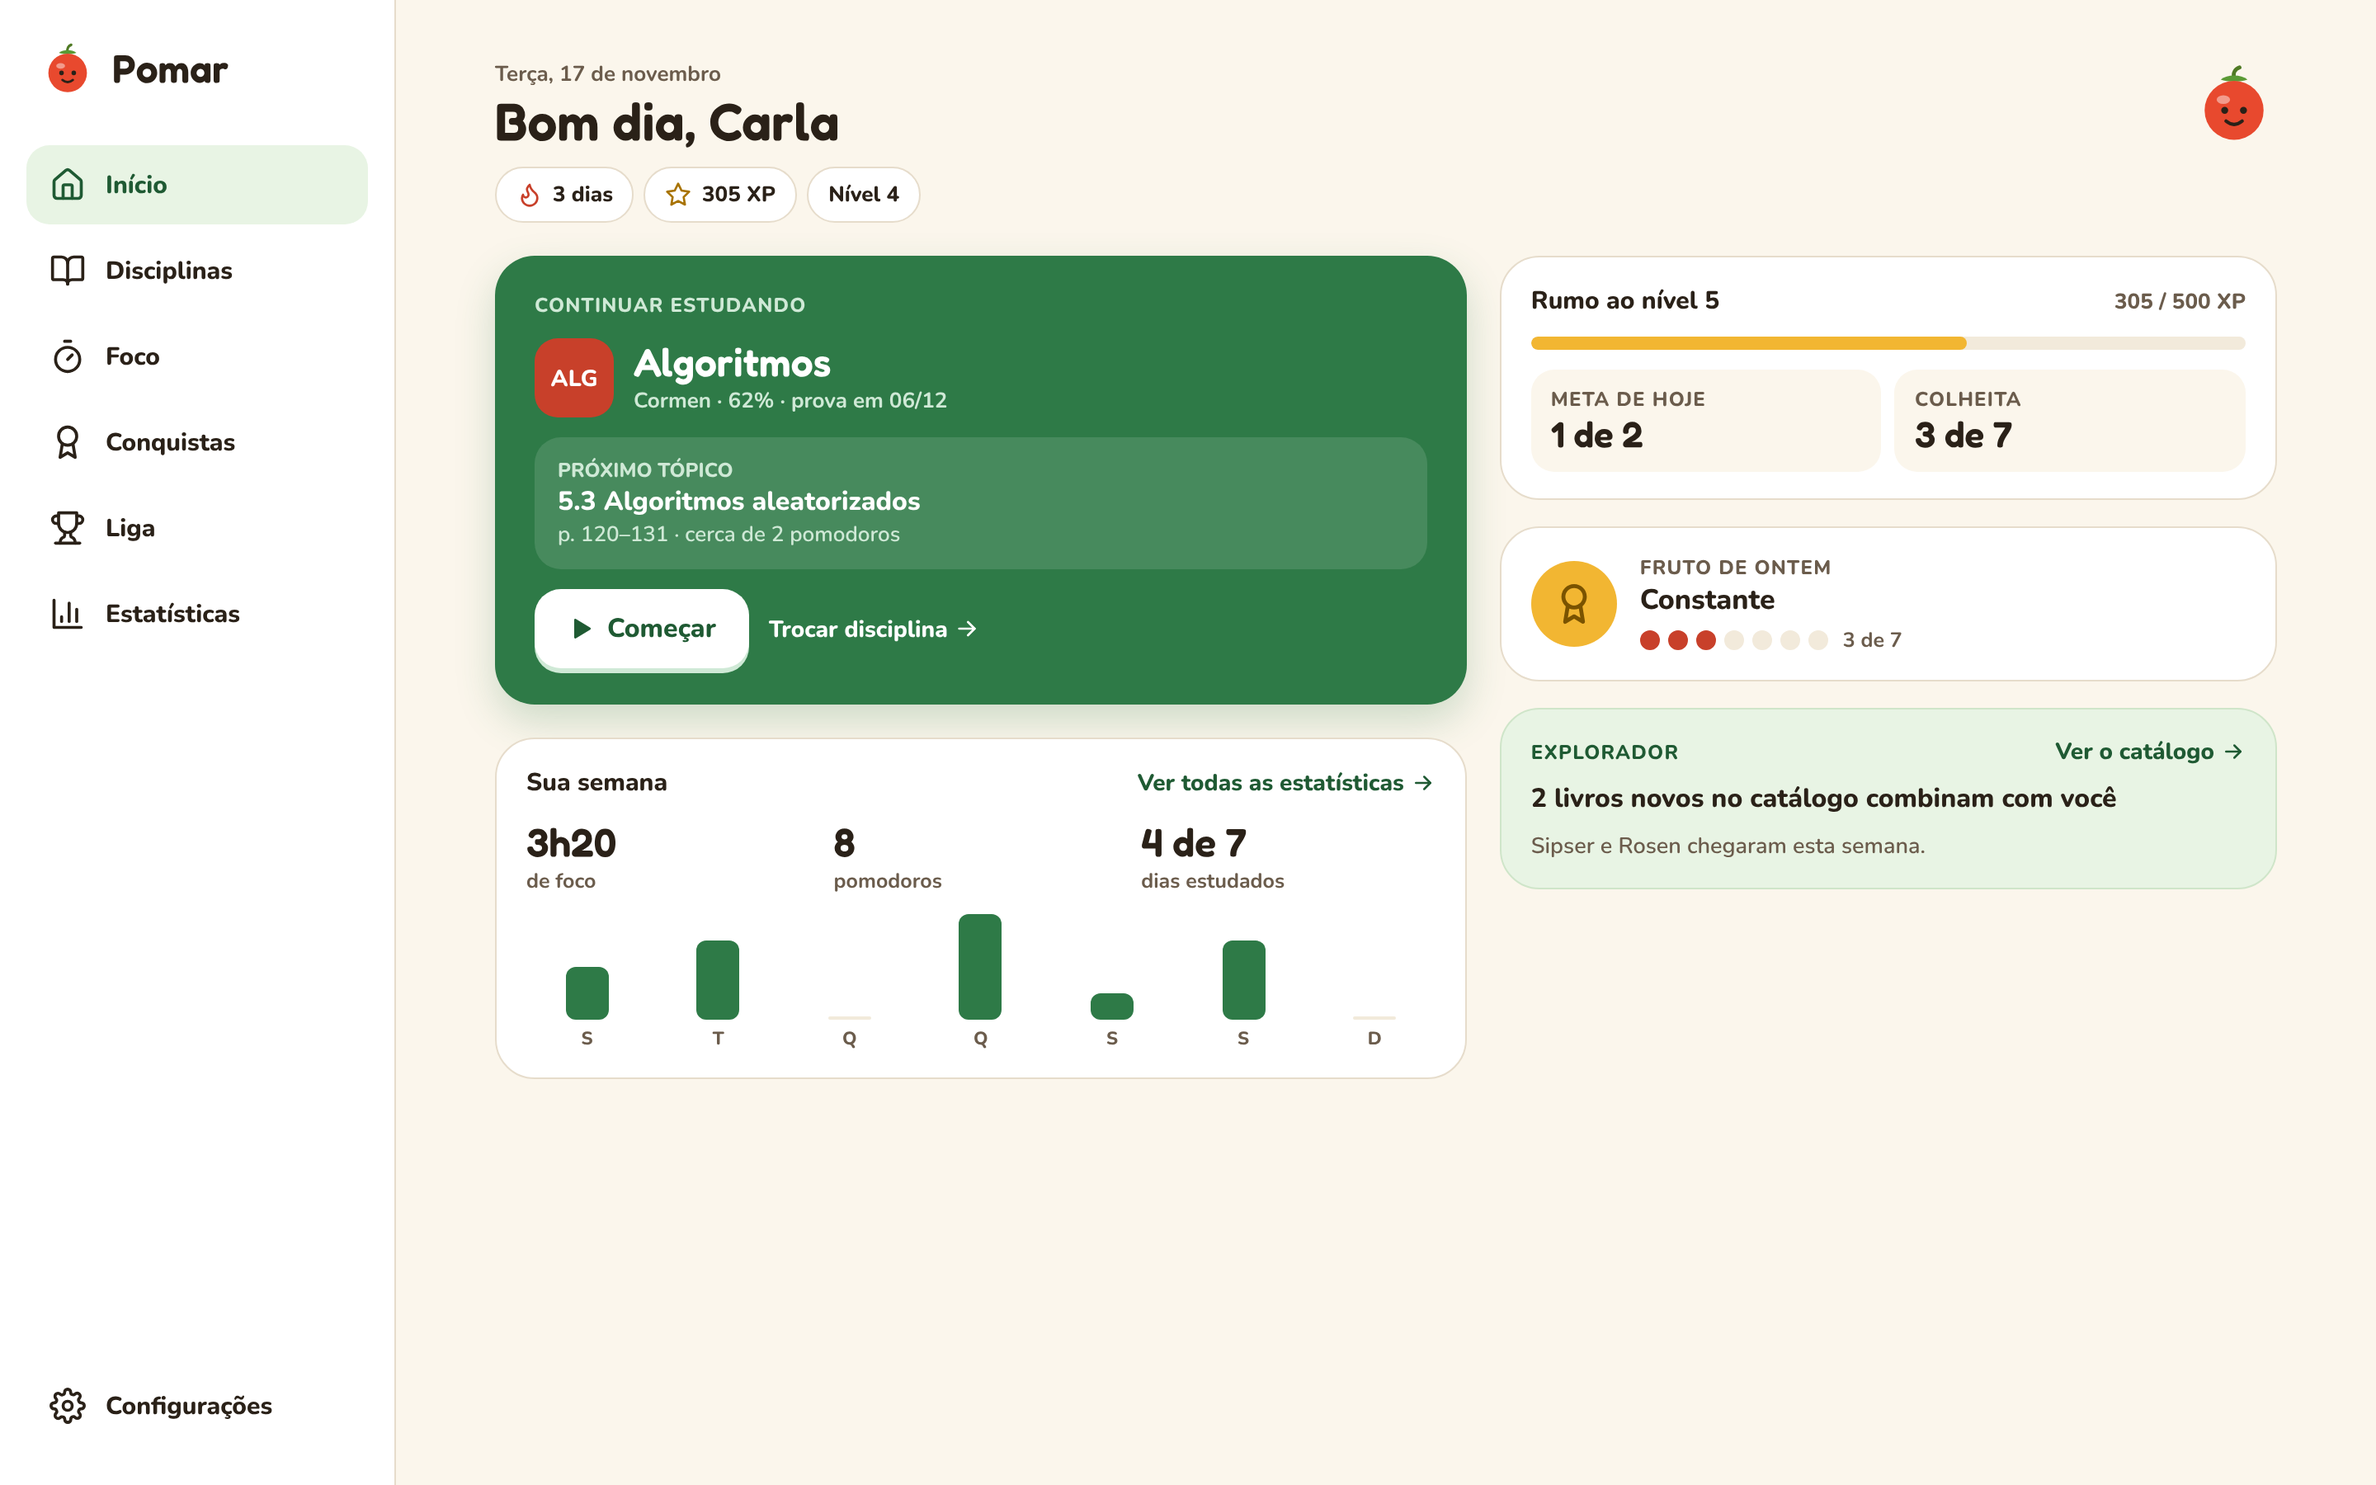
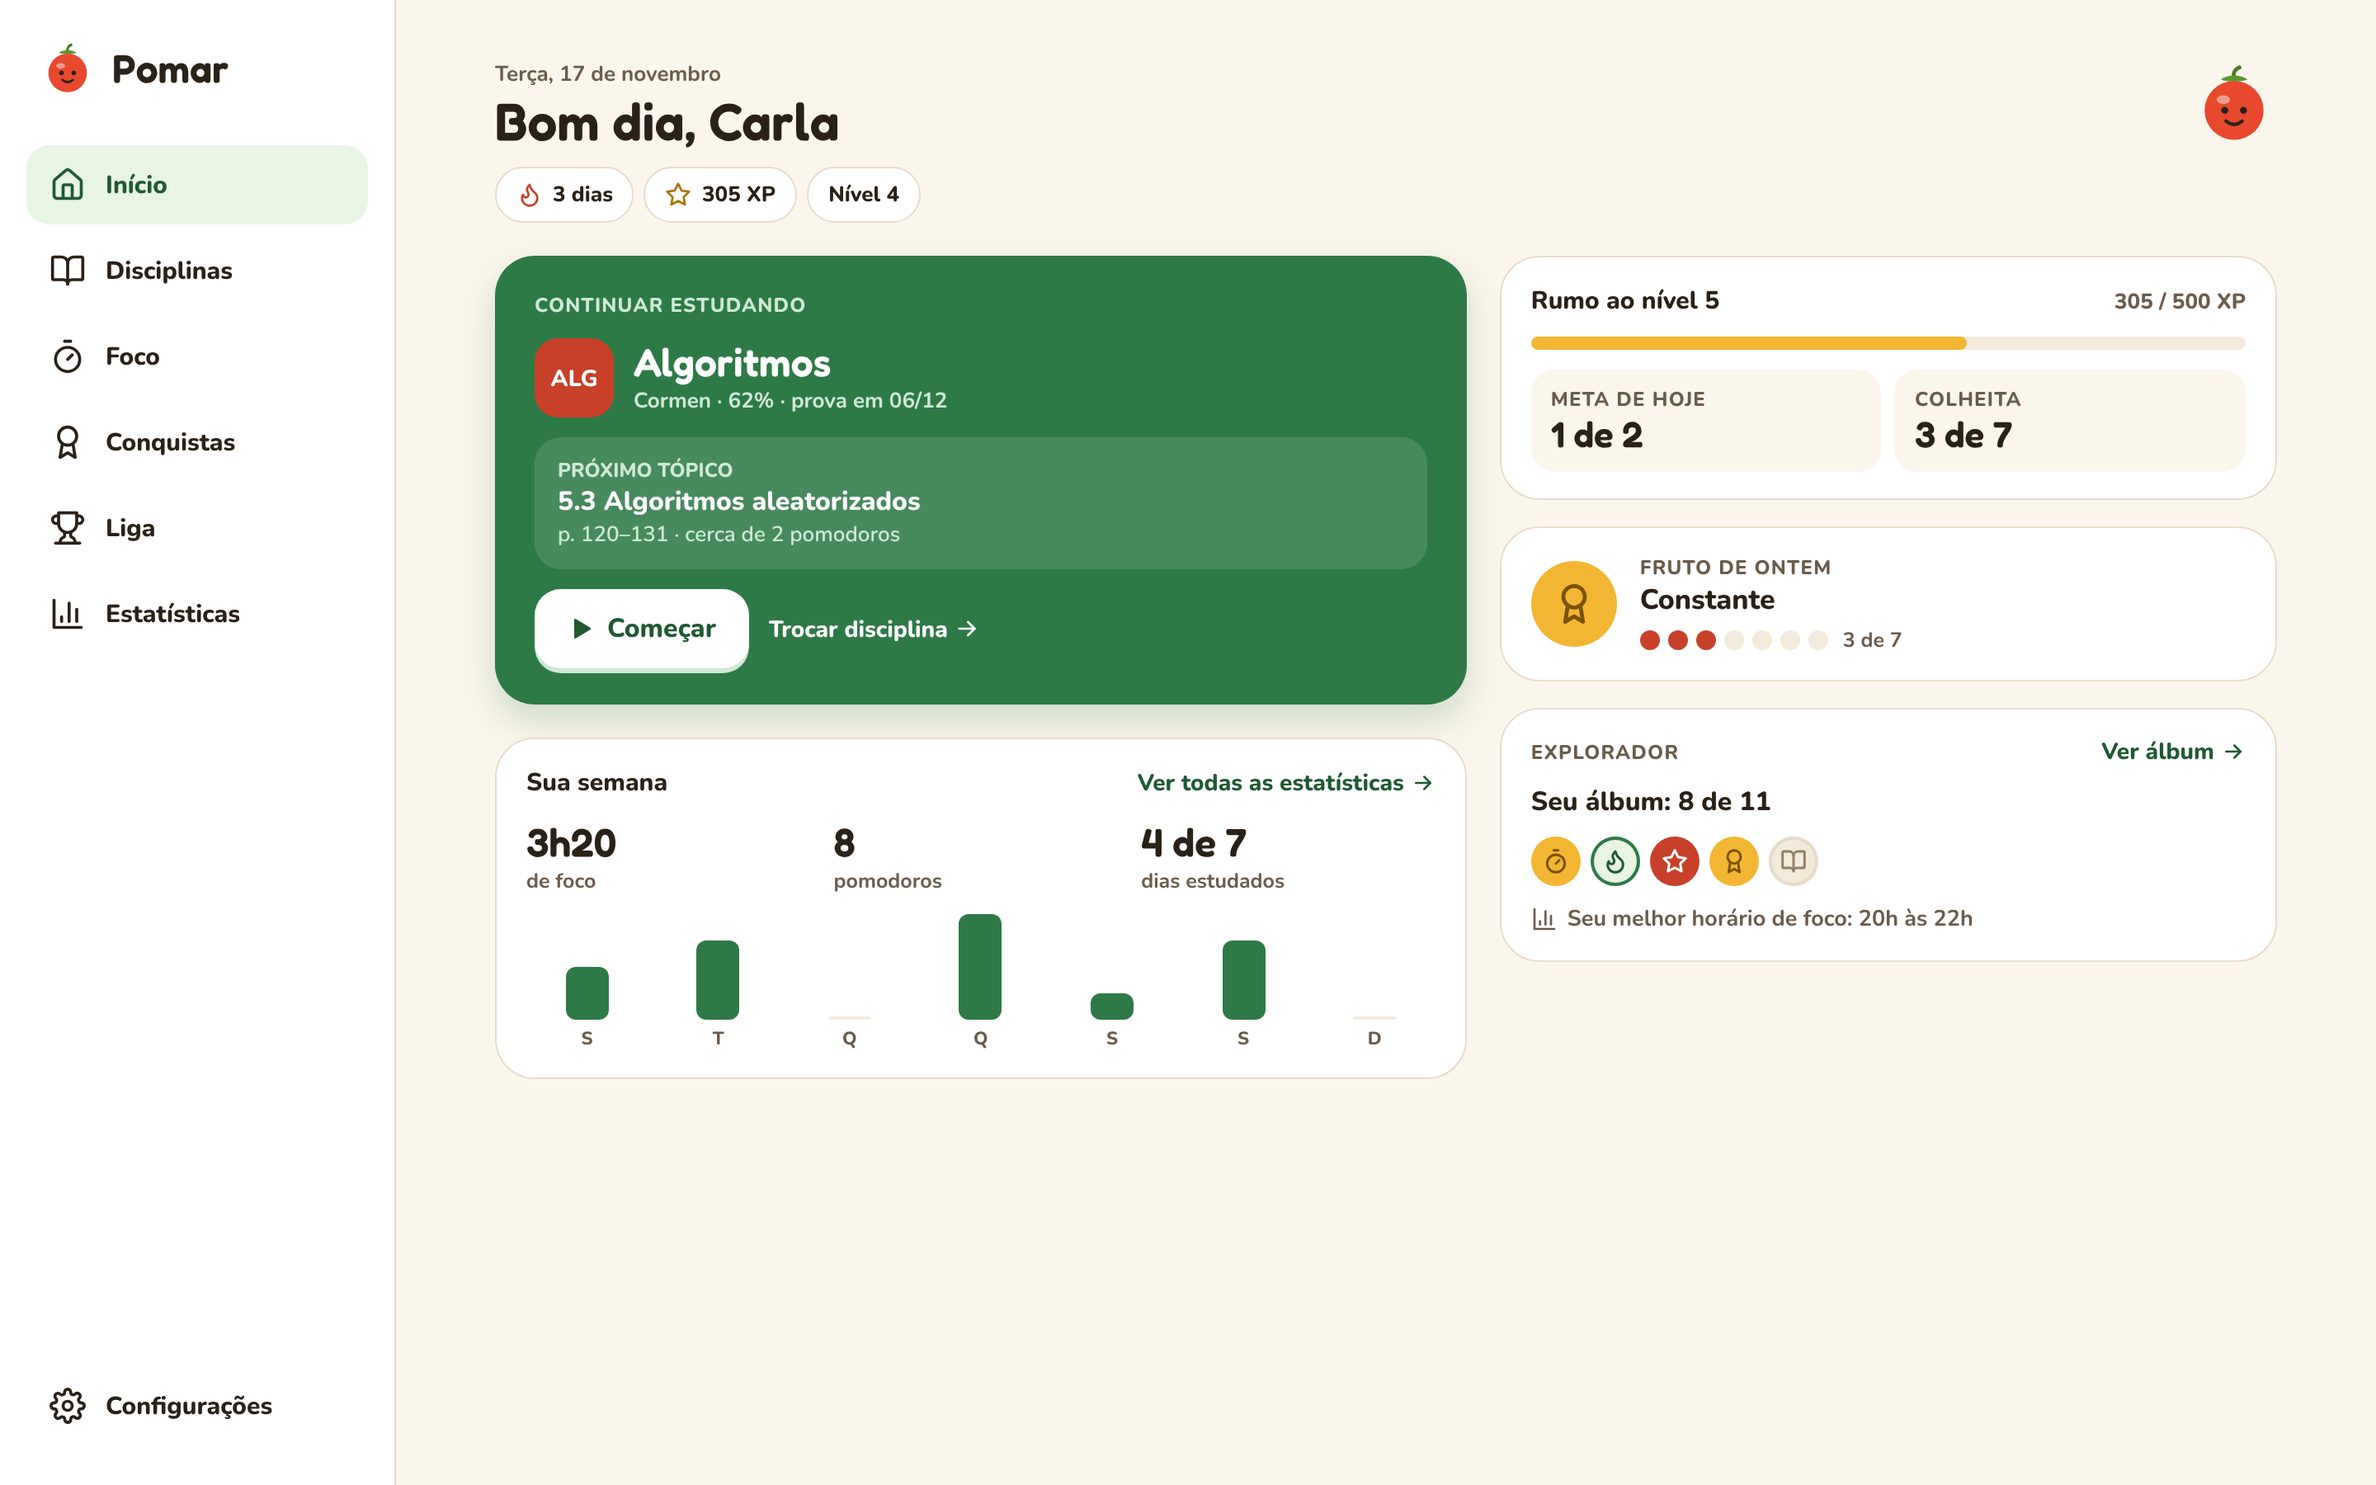
registra as 8 decisões da fase 6B com os estados que faltavam
Fechadas com a dupla em 17/11: item Foco no descanso e em "Colher",
sigla gerada do título, Conquistador sem destaque, coorte B sem o card
de nível, destaque do Explorador mantido, Estatísticas no celular com a
barra e "← Início", e a sessão livre mantida com "Escolher disciplina"
no Foco vazio. Referências 36, 36b, 37 e 37b corrigidas; 39b a 39d
novas.

Claude-Session: https://claude.ai/code/session_01GejFDEQLFhtB77T4o2HkT7

Changed region(s): [[0.625, 0.4667, 0.9688, 0.6222]]

diff --git a/docs/design/telas.md b/docs/design/telas.md
@@ -363,15 +363,17 @@ Referências: `35-pomodoro-desktop-classico.png`, `35-pomodoro-desktop-noturno.p
 
 ## Foco no menu e Início como painel (revisão de 17/11, Fase 6B)
 
-Referências: `36-inicio-painel.png` e `36b-inicio-painel-desktop.png` (Início), `37-foco-vazio.png` e `37b-foco-vazio-desktop.png` (Foco sem disciplina), `38-foco-celular.png` (Foco rodando no celular) e `39-menu-foco.png` (estados do item Foco no menu). Pranchas no canvas "Pomar — Foco e pomodoro no computador". Substitui o Início com a lista de disciplinas (01 e 22) e o caminho "card da disciplina → pomodoro como tela solta".
+Referências: `36-inicio-painel.png` e `36b-inicio-painel-desktop.png` (Início), `37-foco-vazio.png` e `37b-foco-vazio-desktop.png` (Foco sem disciplina), `38-foco-celular.png` (Foco rodando no celular) e `39-menu-foco.png` (estados do item Foco no menu). Pranchas no canvas "Pomar — Foco e pomodoro no computador". Substitui o Início com a lista de disciplinas (01 e 22) e o caminho "card da disciplina → pomodoro como tela solta". Estados decididos em 17/11: `39b-foco-colher.png` (foco terminou fora do Foco), `39c-estatisticas-celular.png` (topo das Estatísticas no celular) e `39d-sigla-selo.png` (sigla do selo).
 
 **Menu**
 - **Celular (`BottomNav`):** Início · Disciplinas · **Foco** · Liga · Conquistas. Foco fica no centro: círculo de 58px em `--primary`, ícone de cronômetro branco, borda de 4px na cor do fundo e sombra `0 4px 0 --primary-strong`, subindo 22px acima da barra; rótulo "Foco" embaixo. **Estatísticas sai da barra do celular** e passa a ser aberta pelo card "Sua semana" do Início.
 - **Computador (`SideNav`):** Início · Disciplinas · **Foco** · Conquistas · Liga · Estatísticas, e Configurações no pé.
 - **Com pomodoro rodando**, o item Foco mostra o tempo que falta, em qualquer tela do app: no celular, "18:42" dentro do círculo e um anel de progresso do ciclo em `--reward`; no computador, um selo `--fruit-soft` com ponto `--fruit` e "18:42" à direita do rótulo. **Pausado:** círculo claro com o tempo parado e o rótulo "Pausado" (celular); selo neutro "Pausado" (computador). O tempo é calculado a partir da sessão salva no servidor e continua contando fora do Foco; o item atualiza 1×/s só enquanto a aba está visível. Leitor de tela: `aria-label="Foco, 18 minutos restantes"` (ou "Foco, pausado").
+- **Foco terminou fora do Foco (39b):** o item troca o tempo pelo fruto maduro e o rótulo **"Colher"**; no celular o círculo fica em `--fruit-soft` com anel cheio em `--fruit`, no computador o selo `--fruit-soft` mostra o fruto e "Colher". O aviso de fim que a pessoa pediu toca uma vez; nada insiste depois. Tocar no item abre a folha de fim do ciclo (07). Leitor de tela: "Foco, fruto pronto para colher".
+- **Durante o descanso:** o item fica no estado normal (sem tempo), em todos os aparelhos, porque o descanso só existe no aparelho onde começou. Tocar nele abre o descanso nesse aparelho.
 
 **Foco (rota `/pomodoro`)**
-- Toque no item Foco abre: (1) a sessão em andamento (foco, pausa ou descanso), se houver; senão (2) **"Nenhuma disciplina selecionada"**: só a cena do tema, sem cronômetro, com o texto numa pílula de vidro (celular, 37) ou no lugar do painel (computador, 37b). Nada mais na tela além do botão Início.
+- Toque no item Foco abre: (1) a sessão em andamento (foco, pausa ou descanso), se houver; senão (2) **"Nenhuma disciplina selecionada"** (37/37b): a cena do tema, sem cronômetro, e um card de vidro com o texto, o botão primário **"Escolher disciplina"** (abre a aba Disciplinas) e o link discreto **"Estudar sem disciplina"** (começa uma sessão livre, sem tópico nem páginas, como hoje). Fora isso, só o botão Início.
 - "Começar" (no card "Continuar estudando", na disciplina ou na lista de Disciplinas) abre `/pomodoro?disciplina=…` com o cronômetro pronto, como hoje (08/35).
 - **O menu não aparece no Foco.** A saída é o botão **"Início"** (pílula de vidro, chevron + texto) no canto superior esquerdo, em todos os estados, inclusive sem disciplina: computador como na 35; **celular agora também vai para o Início** (38), no lugar da seta que voltava para a disciplina. O botão de ajustes continua no canto direito (só com o ciclo parado).
 - Sair do Foco não pausa nem encerra: o tempo continua e aparece no item Foco do menu.
@@ -380,13 +382,17 @@ Referências: `36-inicio-painel.png` e `36b-inicio-painel-desktop.png` (Início)
 - De cima para baixo (celular) ou em duas colunas (computador: à esquerda "Continuar estudando" e "Sua semana"; à direita nível/meta, fruto de ontem e destaque do perfil):
   1. Cabeçalho como hoje (data, saudação, chips de ofensiva, XP e nível, Seu Tomás).
   2. **Continuar estudando:** card em `--primary` com a disciplina estudada por último (selo com a sigla na cor da disciplina, título, livro · progresso · prova), o próximo tópico (páginas e estimativa), botão **"Começar"** (abre o Foco nesse tópico) e link **"Trocar disciplina"** (abre Disciplinas).
-  3. Nível e meta (barra até o próximo nível, "Meta de hoje N de M", "Colheita N de 7").
+     - **Sigla do selo (39d):** gerada do título, sem campo novo. Com 2 ou mais palavras, ignorando "de", "da", "do", "das", "dos" e "e": as iniciais de até 3 delas ("Estruturas de Dados" → ED, "Projeto e Análise de Algoritmos" → PAA). Com uma palavra: as 3 primeiras letras ("Algoritmos" → ALG). Sempre em maiúsculas, com acento. Texto branco ou `--ink`, o que der contraste AA com a cor da disciplina.
+  3. Nível e meta (barra até o próximo nível, "Meta de hoje N de M", "Colheita N de 7"). **Coorte B:** o card não aparece, como hoje (nem a meta sozinha).
   4. Fruto de ontem (como hoje; com fruto pendente, "Toque para colher").
-  5. Destaque do perfil (21).
+  5. Destaque do perfil, **o mesmo da 21**: Explorador = "Seu álbum: N de 11" com "Ver álbum" e o melhor horário de foco; Competidor = posição na Feira; Socializador = quem você segue. **O Conquistador não tem destaque**, porque o card "Rumo ao nível" (item 3) já é o dele. Não há card de livros novos.
   6. **Sua semana:** tempo de foco, pomodoros e dias estudados, barras dos 7 dias e o link **"Ver todas as estatísticas"** (abre a 29).
 - **A lista de disciplinas sai do Início**; fica só na aba Disciplinas (que já existe), com o "Começar" de cada card levando ao Foco.
 - **Sem disciplinas:** o Início mostra o estado vazio da 01b no lugar de "Continuar estudando".
 - **Onboarding (passo 5):** no lugar de "Continuar estudando", o card **"Falta 1 passo · Colha seu primeiro fruto"** com "Começar" (abre o Foco na disciplina criada). Ver "Fluxo do onboarding".
+
+**Estatísticas no celular (39c)**
+- Abertas pelo card "Sua semana". A tela mantém a barra inferior, com **Início marcado**, e ganha o link **"← Início"** no topo, acima do título. O conteúdo segue a 29. No computador nada muda (Estatísticas está na barra lateral).
 
 ## Design completo
 Todas as telas do DESIGN §11 estão desenhadas (ondas 1 a 5). Telas novas que surgirem seguem os componentes acima.

diff --git a/docs/DECISOES.md b/docs/DECISOES.md
@@ -219,10 +219,18 @@ Decisões de produto ficam com a dupla. As marcadas como "pendente" foram tomada
 | 17/11/2026 | **Foco no menu:** nova seção "Foco" (rota `/pomodoro`). No celular a barra fica Início · Disciplinas · Foco (centro, com destaque) · Liga · Conquistas; no computador a barra lateral tem 6 destinos | Decisão da dupla em 17/11: o pomodoro vira um lugar fixo do menu, de onde se sai tocando em outro item | aprovada (dupla, 17/11) |
 | 17/11/2026 | **Estatísticas sai da barra do celular** e entra no Início pelo card "Sua semana" ("Ver todas as estatísticas"); no computador continua na barra lateral | 6 itens não cabem bem em 390px; o Início vira painel | aprovada (dupla, 17/11) |
 | 17/11/2026 | **Início como painel:** sem a lista de disciplinas; com "Continuar estudando", nível e meta, fruto de ontem, destaque do perfil e "Sua semana". A lista fica só em Disciplinas | Decisão da dupla em 17/11 | aprovada (dupla, 17/11) |
-| 17/11/2026 | **Foco sem disciplina:** só a cena e o texto "Nenhuma disciplina selecionada", com o botão Início; nada mais | Decisão da dupla em 17/11 | aprovada (dupla, 17/11) |
+| 17/11/2026 | **Foco sem disciplina:** só a cena e o texto "Nenhuma disciplina selecionada", com o botão Início; nada mais | Decisão da dupla em 17/11 | substituída em 17/11 (ver "Sessão livre continua") |
 | 17/11/2026 | **Menu oculto no Foco**, com o botão "Início" no canto superior esquerdo em todos os estados; no celular ele substitui a seta que voltava para a disciplina. Sair do Foco não pausa | Decisão da dupla em 17/11 ("como é hoje") | aprovada (dupla, 17/11) |
 | 17/11/2026 | **Item Foco com o tempo:** rodando mostra o tempo restante (anel de progresso no celular, selo no computador); pausado mostra "Pausado"; o tempo vem da sessão no servidor | Ninguém esquece um ciclo aberto ao navegar pelo app | aprovada (dupla, 17/11) |
 | 17/11/2026 | A rota do Foco continua `/pomodoro` (o menu só muda o rótulo) | Não quebra links, testes e eventos existentes | aprovada (técnica, 17/11) |
 | 17/11/2026 | **Cartão com fruto pendente:** com fruto ainda não revelado, o cartão do Início mostra o disco "a descobrir" (cadeado do álbum) e "Toque para colher" no lugar do nome, mantendo as bolinhas da semana; sem pendência volta a ser o link do álbum (09). Se a fila já estiver vazia (página desatualizada), o toque abre o álbum | O cartão já mostrava o nome do fruto antes da revelação e estragava a surpresa | aprovada (dupla, 17/11) |
 | 17/11/2026 | **Quando a fila decide abrir:** ao montar, pela tela atual — no primeiro carregamento do app ou quando chega uma pendência nova (ex.: subir de nível ao marcar um tópico em Disciplinas mostra o toast na hora). No pomodoro ela nasce fechada e navegar nunca a abre. Depois do X/Esc, ela não reabre sozinha até recarregar ou tocar no cartão | Mantém o toast de nível de 10/11 sem reabrir nada ao sair do pomodoro | aprovada (dupla, 17/11) |
 | 17/11/2026 | Card "Falta 1 passo" no estilo dos cards do Início (`Card` com rótulo em `--primary-strong`, título, texto e "Começar" primário grande com ícone de play); no passo 5 sem disciplina (apagada), o Início continua levando a `/disciplinas/nova` | Não há referência desenhada do card; segue o design system | pendente |
+| 17/11/2026 | **Item Foco no descanso:** o item mostra só o foco; durante o descanso fica no estado normal, e tocar nele abre o descanso no aparelho onde começou | O descanso não fica no servidor; o item fica igual em todos os aparelhos | aprovada (dupla, 17/11) |
+| 17/11/2026 | **Foco terminou fora do Foco:** o item troca o tempo pelo fruto maduro e "Colher" (anel cheio em --fruit); o aviso pedido toca uma vez; tocar abre a folha de fim do ciclo (39b) | "00:00" parado pode parecer erro; "Colher" fala a língua do app | aprovada (dupla, 17/11) |
+| 17/11/2026 | **Sigla do selo gerada do título:** iniciais de até 3 palavras sem de/da/do/das/dos/e; com uma palavra, as 3 primeiras letras; texto branco ou --ink pelo contraste AA (39d) | O banco não tem sigla; sem campo novo a 6 dias do congelamento | aprovada (dupla, 17/11) |
+| 17/11/2026 | **Conquistador sem destaque** no Início: o card "Rumo ao nível" já é o destaque dele | Evita o mesmo card duas vezes | aprovada (dupla, 17/11) |
+| 17/11/2026 | **Coorte B:** o card de nível e meta não aparece no Início, nem a "Meta de hoje" sozinha | Mantém a coorte B igual ao que já rodou no experimento | aprovada (dupla, 17/11) |
+| 17/11/2026 | **Destaque do Explorador continua o atual** (álbum de emblemas e melhor horário, tela 21); a prancha 36 foi corrigida | O card de livros novos seria funcionalidade nova, arriscada antes do congelamento | aprovada (dupla, 17/11) |
+| 17/11/2026 | **Estatísticas no celular** mantêm a barra inferior com Início marcado e ganham "← Início" no topo (39c) | A pessoa continua podendo ir a qualquer menu dali | aprovada (dupla, 17/11) |
+| 17/11/2026 | **Sessão livre continua:** o Foco sem disciplina mostra o texto, o botão "Escolher disciplina" e o link discreto "Estudar sem disciplina"; uma sessão livre rodando aparece normalmente. Substitui "Foco sem disciplina: só o texto" (17/11) | Pedido da dupla em 17/11: não criar mecanismos rígidos no foco | aprovada (dupla, 17/11) |
